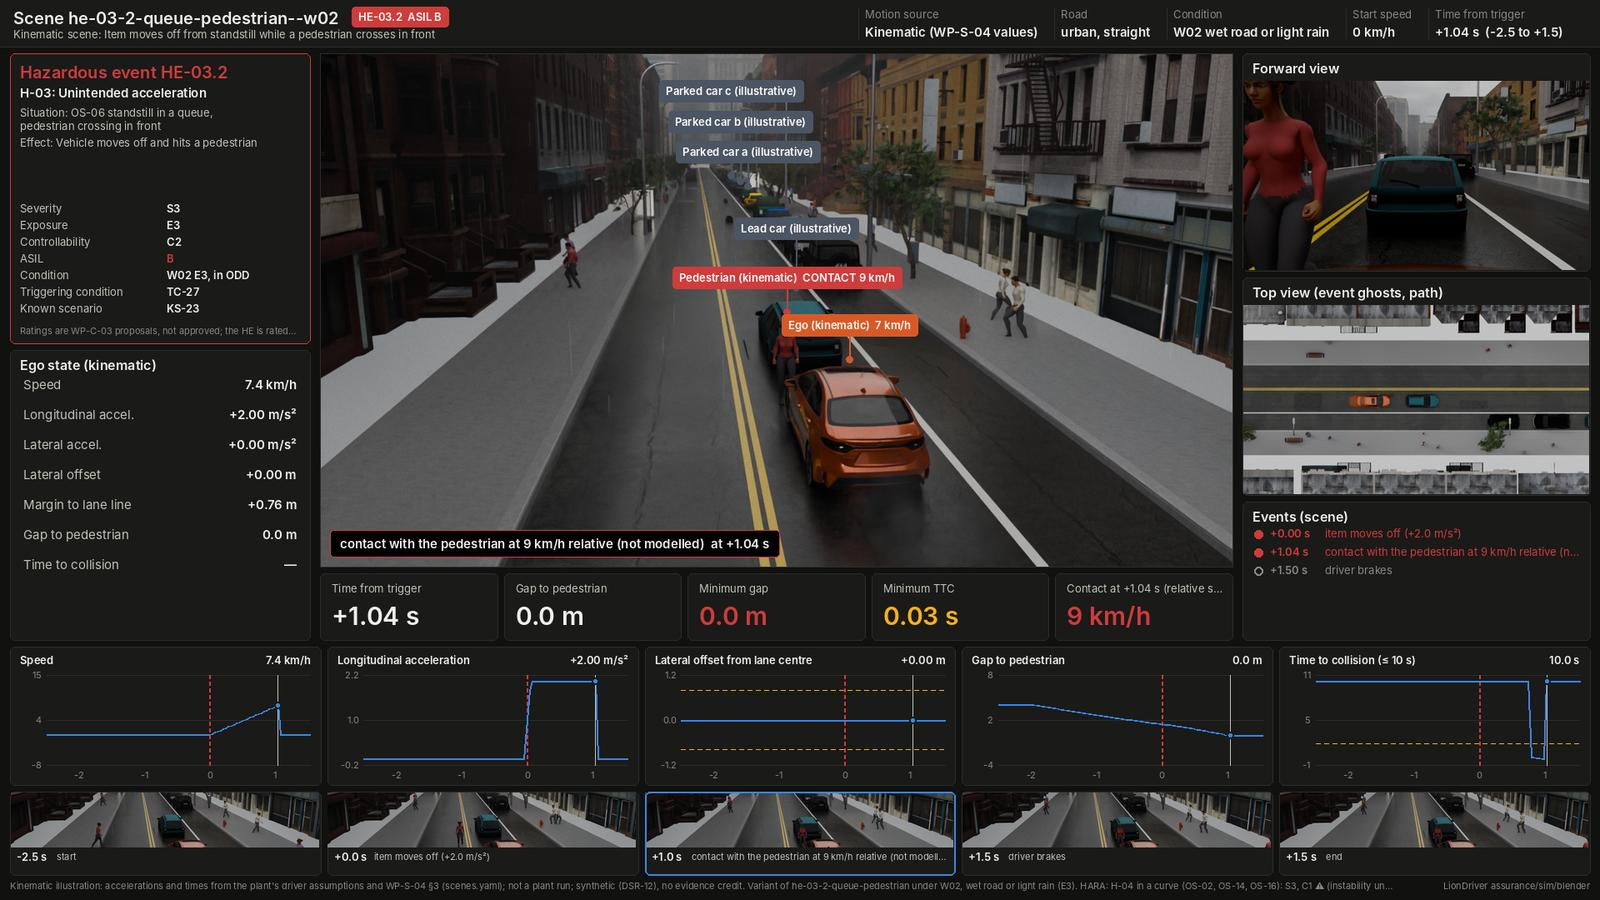
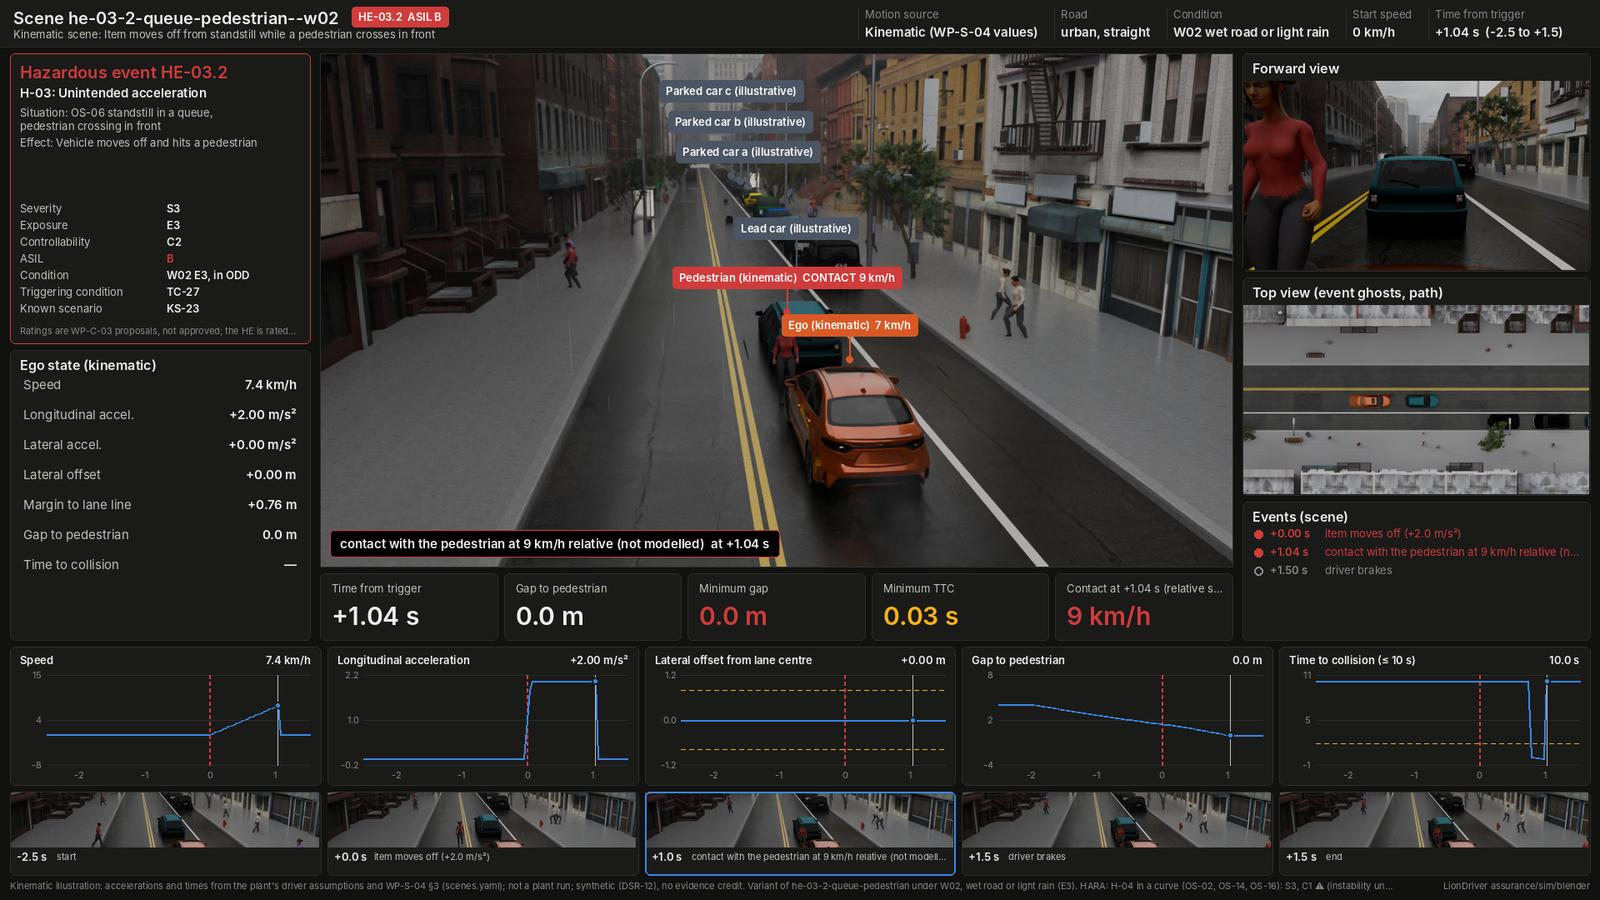
Urban kit streets: pave behind the pavements; facades as dielectrics
Two render-only look defects from the CC-BY city kits (#431):

- A blue strip between the pavement and the facades (and through gaps
  between buildings): nothing was modelled beyond the pavement's back
  edge, so chase rays there hit the sky. scenery_kits now lays the
  pavement's paving on 60 m past its back edge on each side under
  city_blocks.
- Near-black shaded facades: the brownstone and downtown FBX materials
  import as Metallic 1, Specular 0. They are set to a dielectric
  (Metallic 0, Specular 0.5), which lifts a facade in shade by about
  half. The rest is real shade: with the sun behind, every left-side
  facade faces away from it.

Re-rendered the 9 urban dashboards and the sim hero strip.
export_scene.py output is unchanged.

Claude-Session: https://claude.ai/code/session_015KYRqu7HL3znbSek1xx355

diff --git a/assurance/sim/blender/scenery_kits.py b/assurance/sim/blender/scenery_kits.py
@@ -27,6 +27,8 @@ import street_life
 BUILDING_USES = ("city_block", "skyline", "farm", "roadside", "bins")
 NIGHT_DIM = (0.25, 0.25, 0.28)   # the scans' colour maps carry daylight: multiplied down at night
 DINER_CARS = 3
+LOT_M = 60.0                     # paving from the back of each pavement out under and between the street's rows
+DIELECTRIC_KITS = ("city_brownstones", "city_downtown")   # their FBX materials import as Metallic 1, Specular 0
 
 
 # ------------------------------------------------------------------------------------------------- kits
@@ -248,6 +250,16 @@ def _night(env, mats):
     nt.links.new(mix.outputs[2], sock)
 
 
+def _dielectric(mats):
+  """The facades as a dielectric (Metallic 0, Blender's default Specular 0.5) where no map drives them: as imported
+  (Metallic 1, Specular 0), a facade in shade has no sky sheen and renders near black."""
+  for m in mats:
+    bsdf = next((n for n in m.node_tree.nodes if n.type == "BSDF_PRINCIPLED"), None) if m.use_nodes else None
+    for name, v in (("Metallic", 0.0), ("Specular IOR Level", 0.5)):
+      if bsdf is not None and not bsdf.inputs[name].links:
+        bsdf.inputs[name].default_value = v
+
+
 def _snow(env, mats):
   if env.get("snow"):
     for m in mats:
@@ -283,6 +295,11 @@ def build(sc: dict, env: dict, assets, keyframe, walk, lamps=None, rear: bool = 
   street = [p for n in ("city_brownstones", "city_chicago", "city_downtown") if n in kits
             for p in kits[n].pieces.get("city_block", [])]
   if street and env.get("city_blocks") and urban:
+    _dielectric({m for n in DIELECTRIC_KITS if n in kits for m in kits[n].materials})
+    pave = bpy.data.materials.get("sidewalk")
+    for side, _, back in L.pavements(sc["road"]):   # the ground under and between the rows (else the sky shows below)
+      far = back + side * LOT_M
+      A.strip(f"lot_{side:+d}", sc["road"]["centre"], max(back, far), min(back, far), A.KERB_H, pave, coll)
     rows = street_life.blocks(sc, [p["w"] for p in street])
     for k, b in enumerate(rows):
       place(street[b["k"]], f"block{k}", coll, (b["x"], b["y"], 0.0), b["yaw"], b["mirror"])

diff --git a/assurance/sim/blender/library/README.md b/assurance/sim/blender/library/README.md
@@ -262,6 +262,12 @@ road user's own animated root, so its poses do not move. Nor may an extra change
 
 The same test exports every scene with these keys removed and checks that the analysis is unchanged.
 
+Under `city_blocks` the pavement's paving runs on 60 m past its back edge, under and between the rows, so no sky shows
+between the pavement and the facades or through the gaps. The brownstone and downtown kits' FBX materials import as
+metal with no specular (Metallic 1, Specular 0); they are set back to a dielectric (Metallic 0, Specular 0.5). That
+lifts a facade in shade by about half; brownstone on the shaded side of a street still reads dark, as it would in a
+photograph.
+
 Scans carry daylight in their colour maps, so at night they are dimmed; under snow their roofs get snow. People are
 cloned from the two figures, each with its own rig, walk and shirt colour. A 1280 × 720 chase still of
 `sh-09-red-light`, with 30 buildings, 36 parked and 5 passing cars and 57 people, builds in about 25 s and peaks at
